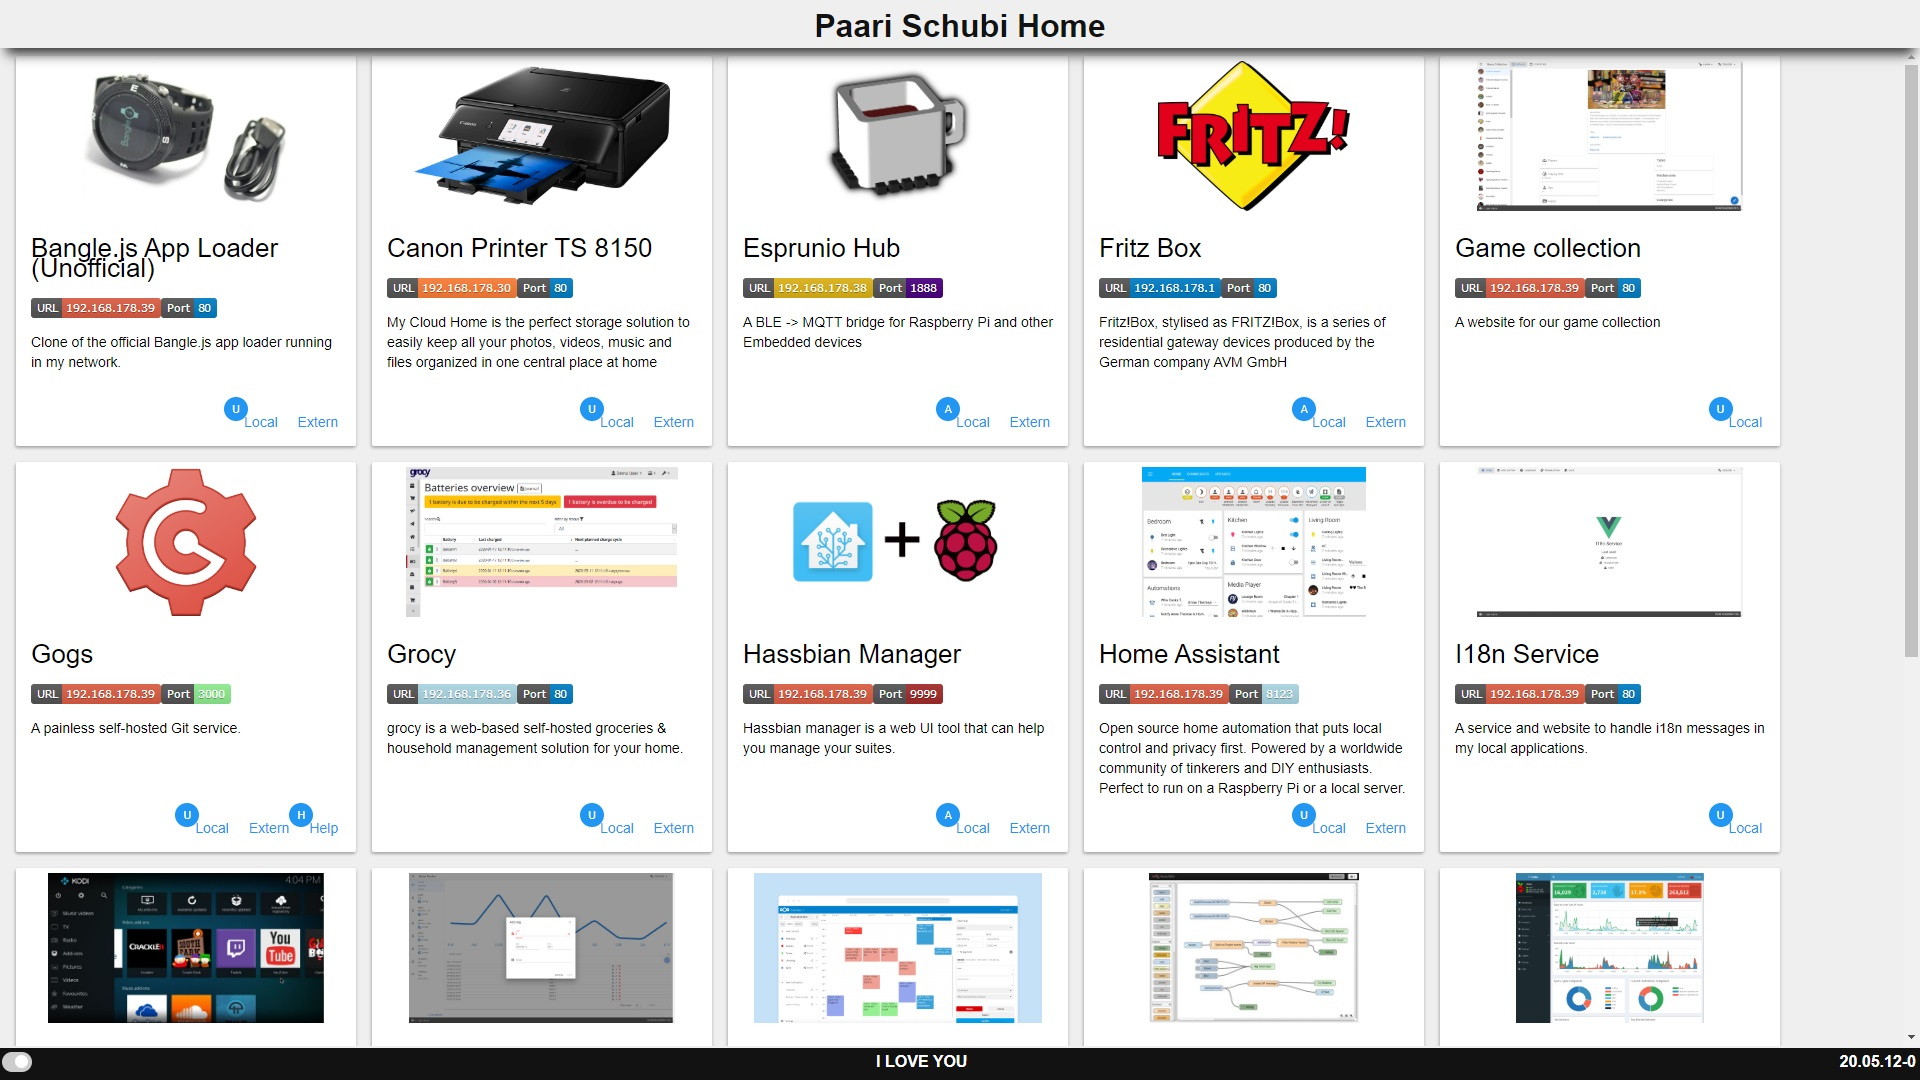
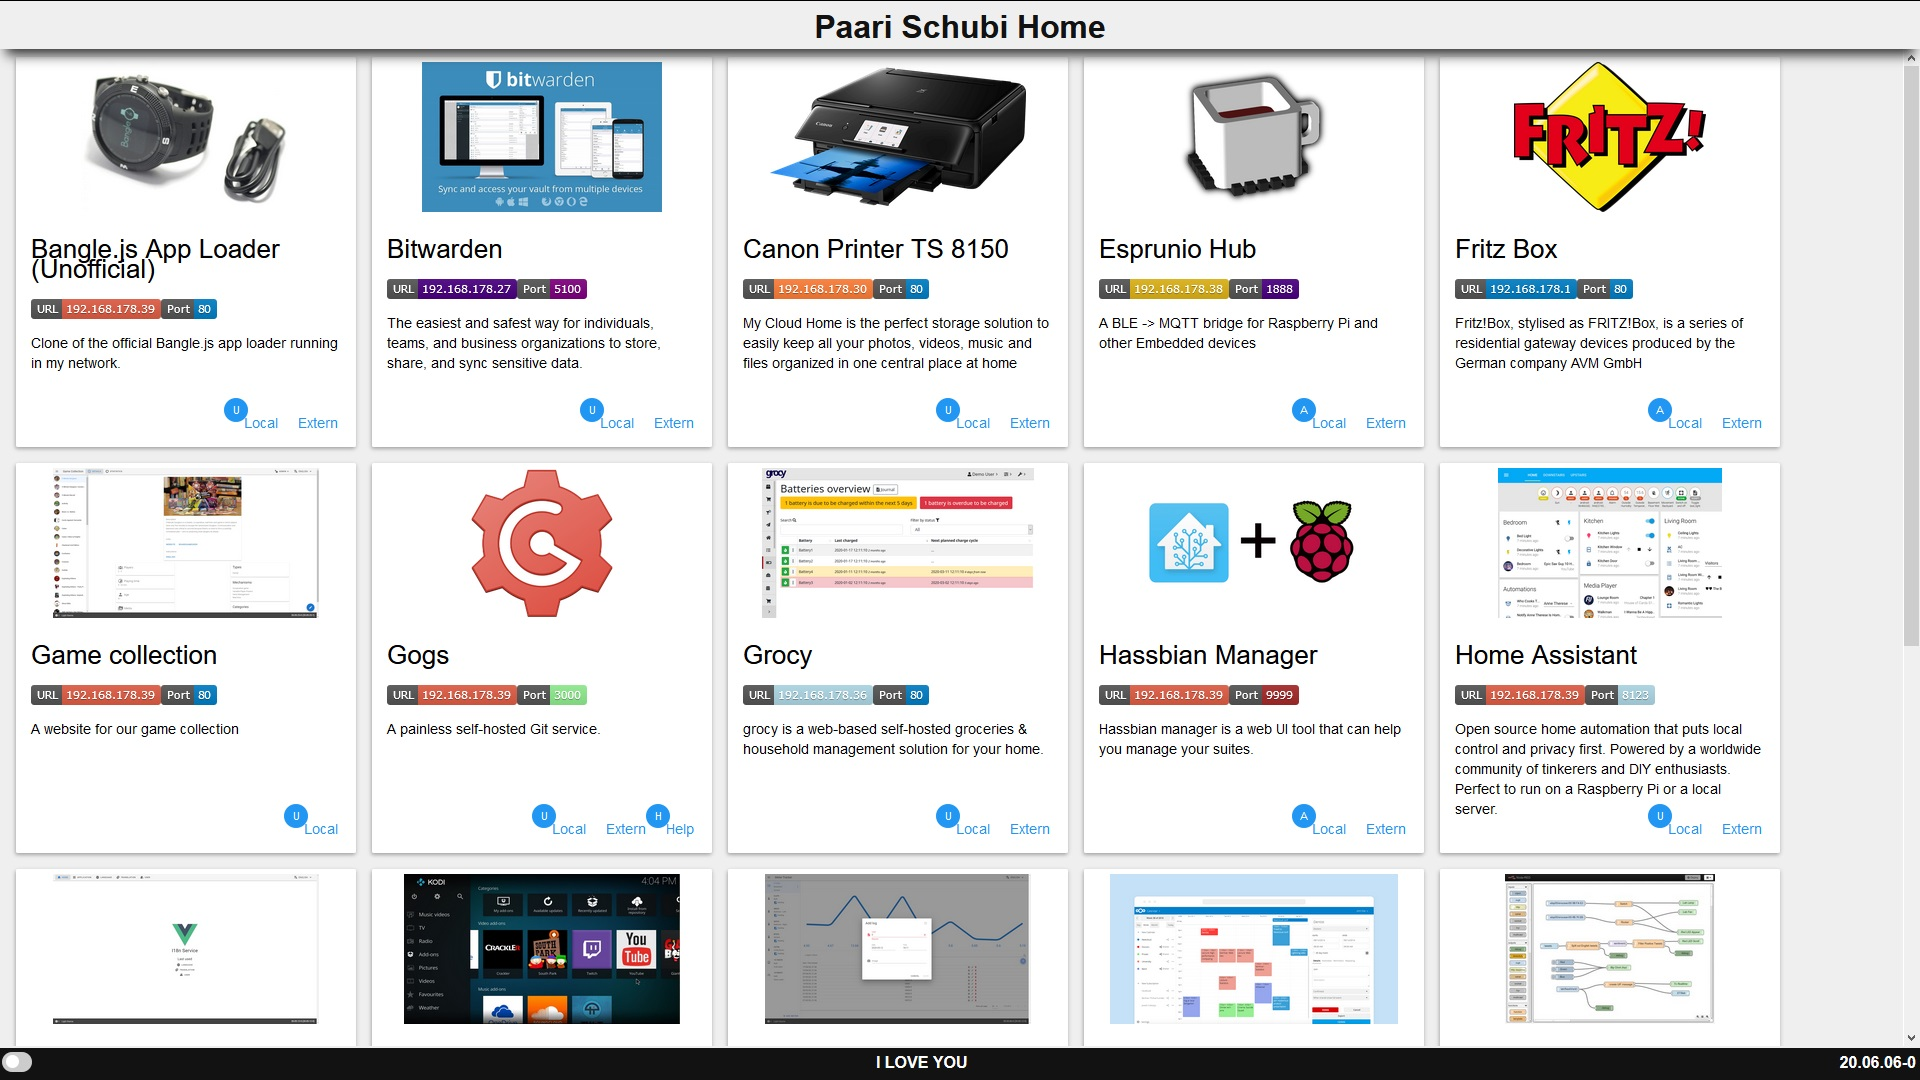
adds bitwarden URL

diff --git a/index.html b/index.html
@@ -24,6 +24,22 @@
             </div>
 
             <div class="card">
+                <a href="https://192.168.178.27:5100" target="_blank"><img class="card-image" src="https://external-content.duckduckgo.com/iu/?u=https%3A%2F%2Fi2.wp.com%2Fwww.windowslatest.com%2Fwp-content%2Fuploads%2F2017%2F09%2FBitwarden.jpg%3Ffit%3D980%252C613%26ssl%3D1&f=1&nofb=1" /></a>
+                <div class="card-details">
+                    <h2 class="card-head">Bitwarden</h2>
+                    <div style="display: flex;">
+                        <a href="https://192.168.178.27:5100" target="_blank"><img class="card-image" src="https://img.shields.io/badge/URL-192.168.178.27-indigo.svg" /></a>
+                        <a href="https://192.168.178.27:5100" target="_blank"><img class="card-image" src="https://img.shields.io/badge/Port-5100-purple.svg" /></a>
+                    </div>
+                    <p>The easiest and safest way for individuals, teams, and business organizations to store, share, and sync sensitive data.</p>
+                    <div class="card-actions">
+                        <a href="https://bitwarden.com/" target="_blank" class="card-action-button">Extern</a>
+                        <a href="https://192.168.178.27:5100" target="_blank" class="card-action-button" data-badge="U">Local</a>
+                    </div>
+                </div>
+            </div>
+
+            <div class="card">
                 <a href="http://192.168.178.30/" target="_blank"><img class="card-image" src="https://external-content.duckduckgo.com/iu/?u=https%3A%2F%2Fi1.adis.ws%2Fi%2Fcanon%2Fpixma-ts8150-paper-tray-fsl_800x470&f=1&nofb=1" /></a>
                 <div class="card-details">
                     <h2 class="card-head">Canon Printer TS 8150</h2>
@@ -283,7 +299,7 @@
 				<span class="slider round"></span>
 			</label>
             I LOVE YOU
-            <div style="float: right;">20.05.24-0</div>
+            <div style="float: right;">20.06.06-0</div>
 		</div>
     </body>
 </html>
